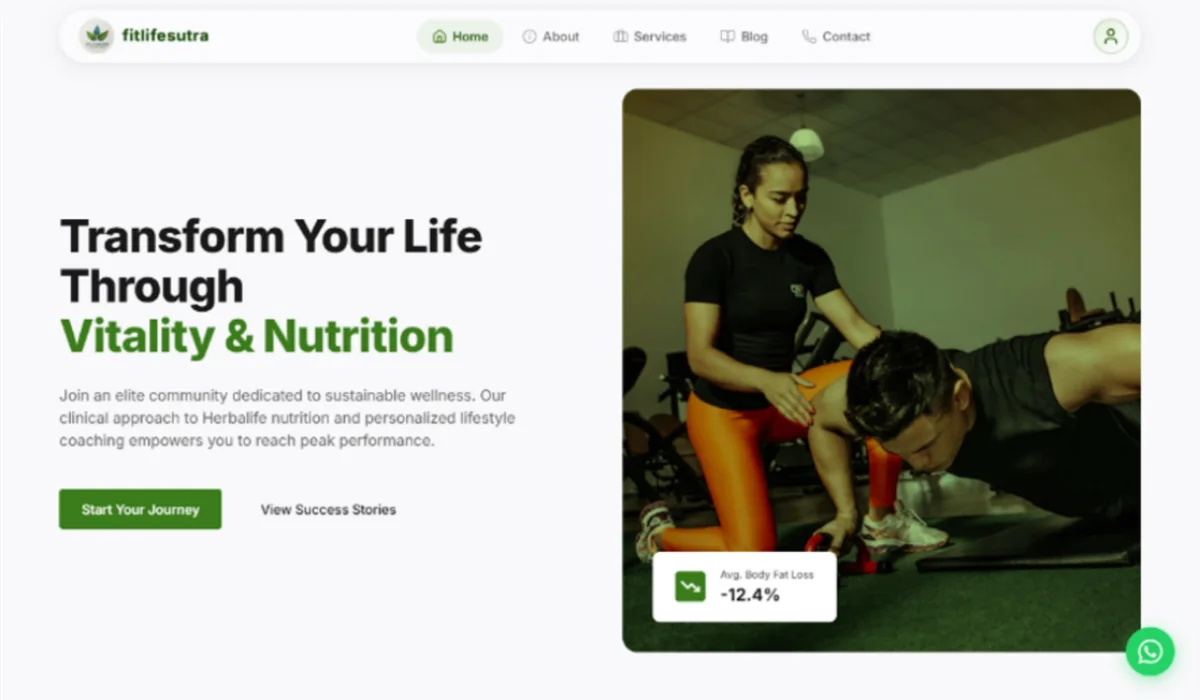
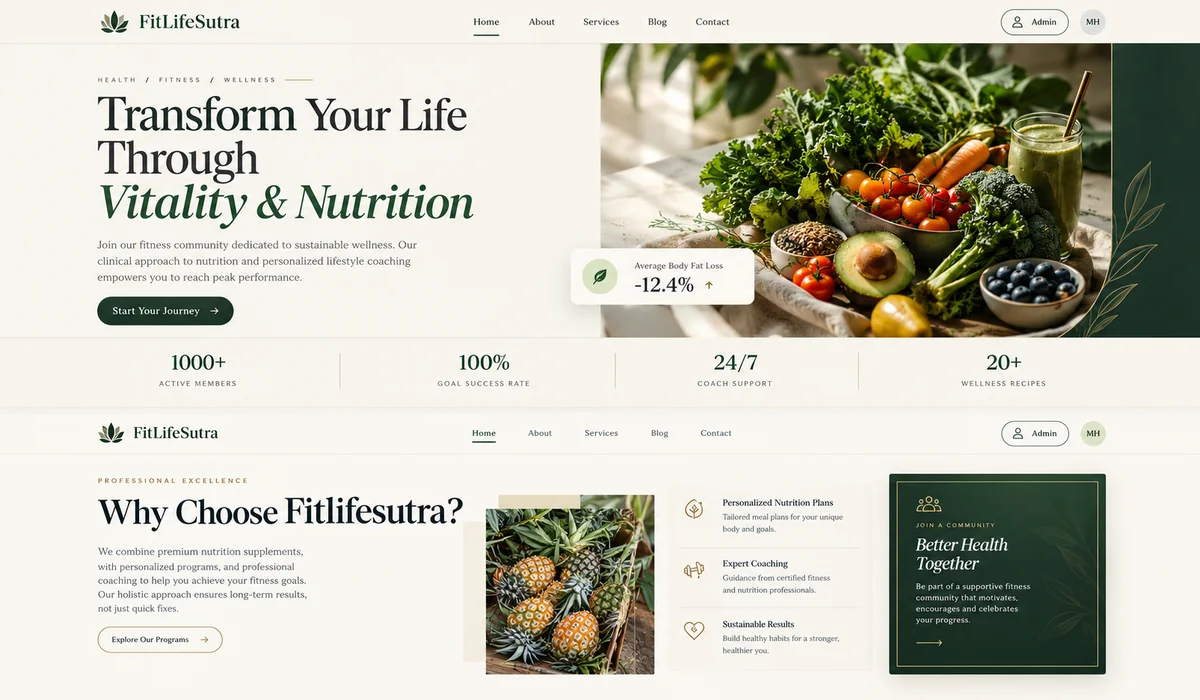
case study fix

diff --git a/src/data/content.ts b/src/data/content.ts
@@ -13,6 +13,7 @@ import projectAgencyOS from '../assets/agencyos.png'
 import projectIllusionmed from '../assets/illusionmed-img.png'
 import projectDrSunil from '../assets/project-drsunil.png'
 import scanitMockup from '../assets/scanit-mockup.png'
+import projectVedyaraHome from '../assets/project-vedyara-home.webp'
 import screenVedyara from '../assets/screen-vedyara.webp'
 import screenFitlife from '../assets/screen-fitlife.webp'
 import screenDrSunil from '../assets/screen-drsunil.webp'
@@ -248,6 +249,7 @@ export const projects: Project[] = [
     ],
     href: 'https://vedyara.in',
     image: projectHoney,
+    gallery: [projectVedyaraHome],
     logo: logoVedyara,
     accent: 'amber',
     screen: screenVedyara,

diff --git a/src/pages/WebsiteDevelopment.tsx b/src/pages/WebsiteDevelopment.tsx
@@ -427,7 +427,7 @@ export function WebsiteDevelopment() {
                 Contact Engineers
               </motion.a>
               <a
-                href="/case-studies"
+                href="/portfolio"
                 className="inline-flex h-13 items-center justify-center rounded-2xl border border-line bg-white px-7 text-[15px] font-semibold text-ink hover:border-ink"
               >
                 Browse All Case Studies

diff --git a/src/components/sections/Work.tsx b/src/components/sections/Work.tsx
@@ -82,7 +82,7 @@ export function Work() {
       <Reveal>
         <div className="mt-10 flex justify-center">
           <a
-            href="/case-studies"
+            href="/portfolio"
             className="group inline-flex h-12 items-center gap-2 rounded-2xl border border-line bg-white px-6 text-[15px] font-semibold text-ink transition-colors hover:border-ink"
           >
             All case studies
